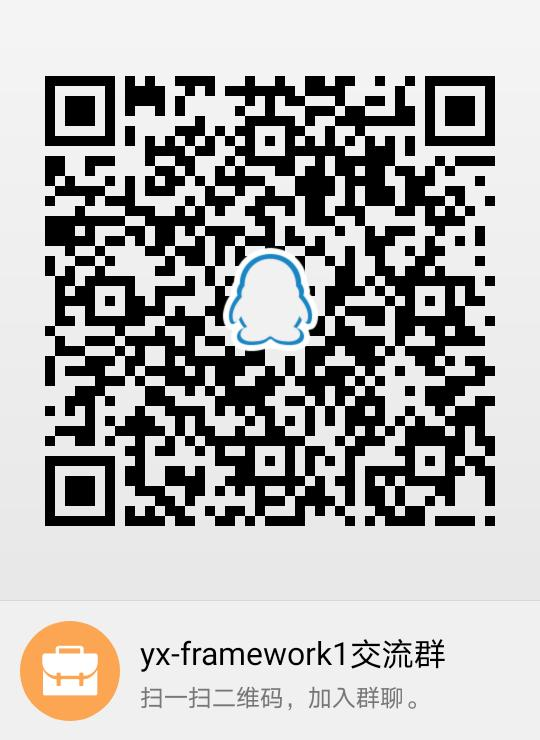
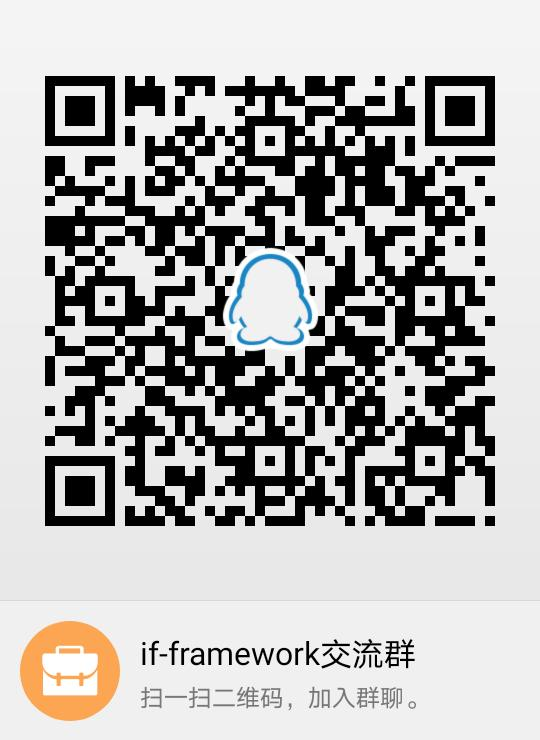
仓库地址变更，更新README

Changed region(s): [[0.2667, 0.8392, 0.8296, 0.9014]]

diff --git a/README.md b/README.md
@@ -132,8 +132,8 @@ yx-framework ............................................ yx信息架构
      10. 文件上传、邮件推送，邮件发送，短信发送等工具类可能不可用，需要将自己申请的accessKeyId，accessKeySecret配置到参数表中（sys_param）方可正常使用
    
      ## 项目地址
-             ● gitee： https://gitee.com/thl9090/yx-framework1
-             ● github：https://github.com/thl9090/yx-framework1
+             ● gitee： https://gitee.com/thl9090/if-framework
+             ● github：https://github.com/thl9090/if-framework
      
      ## 项目演示
         ● 演示地址： http://134.175.157.186/
